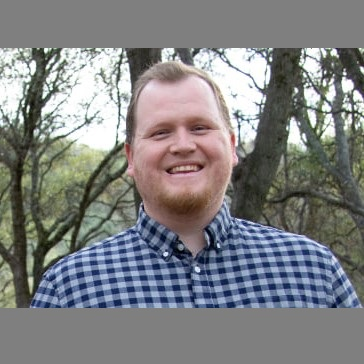
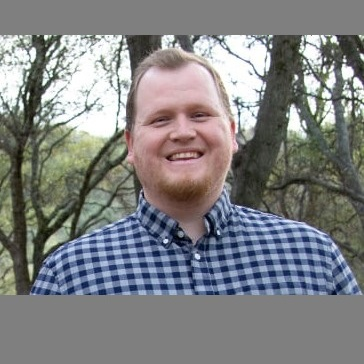
fixed main portrait image and added more credentials

diff --git a/docs/index.html b/docs/index.html
@@ -112,8 +112,15 @@
                 <p>
                     I am a Python Web Developer who loves to code! As a father of five boys, I enjoy time with my family and traveling. 
                     <br>
-                    <br>I am a graduate of <a href="https://www.learncodinganywhere.com" target="_blank">The Tech Academy</a>’s Python Boot Camp, and trained and experienced in the following web and programming languages: HTML, CSS, JavaScript, SQL, and (of course) Python.                     <br>
-                    <br>I also have experience using <a href="https://wordpress.com/" target="_blank">WordPress</a>, <a href="https://www.bluehost.com/" target="_blank">BlueHost</a>, <a href="https://www.hostgator.com/" target="_blank">HostGator</a>, <a href="https://filezilla-project.org/" target="_blank">FileZilla</a>, <a href="https://formspree.io/" target="_blank">FormSpree</a>, <a href="https://elementor.com/" target="_blank">Elementor</a>, <a href="https://visualstudio.microsoft.com/" target="_blank">Microsoft's Visual Studios</a>, <a href="https://desktop.github.com/" target="_blank">GitHub Desktop</a>, <a href="https://nodejs.org/en/about/" target="_blank">Node.js</a>&reg;, <a href="https://jquery.com/" target="_blank">jQuery</a>, and more!                    <br>
+                    <br>I am a graduate of <a href="https://www.learncodinganywhere.com" target="_blank">The Tech Academy</a>’s Python Boot Camp, and trained and experienced in the 
+                    following web and programming languages: HTML, CSS, JavaScript, SQL, and (of course) Python.<br>
+                    <br>I also have experience using <a href="https://wordpress.com/" target="_blank">WordPress</a>, <a href="https://www.bluehost.com/" target="_blank">BlueHost</a>, 
+                    <a href="https://www.hostgator.com/" target="_blank">HostGator</a>, <a href="https://filezilla-project.org/" target="_blank">FileZilla</a>, 
+                    <a href="https://formspree.io/" target="_blank">FormSpree</a>, <a href="https://elementor.com/" target="_blank">Elementor</a>, 
+                    <a href="https://visualstudio.microsoft.com/" target="_blank">Microsoft's Visual Studios</a>, <a href="https://www.jetbrains.com/pycharm/" target="_blank">PyCharm</a>, 
+                    <a href="https://desktop.github.com/" target="_blank">GitHub Desktop</a>, <a href="https://nodejs.org/en/about/" target="_blank">Node.js</a>, 
+                    <a href="https://getbootstrap.com/" target="_blank">BootStrap</a>, <a href="https://jquery.com/" target="_blank">jQuery</a>, <a href="https://www.djangoproject.com/" target="_blank">Django</a>, 
+                    and more!<br>
                     <br>I am a full-stack web developer and would love to be an aid and a valuable tool to your company and work with you on your project. <a onclick="openForm()">Contact</a> me below!
                 </p>
             </div>
@@ -164,7 +171,7 @@
             <div class="Column_2 Column_tall">
                 <h1 class="family">I would love to be a part of your family!</h1>
                 <img src="images/Family_Picture2.jpg" onclick="openModal();currentSlide(1)" class="hover-shadow cursor picmain">
-                <p style="text-align: center;">Click on my family picture to learn more!</p>
+                <p style="text-align: center;">Click on my family picture to ENLARGE and learn more!</p>
             </div>       
             
             <!-- Project Space, right column-->
